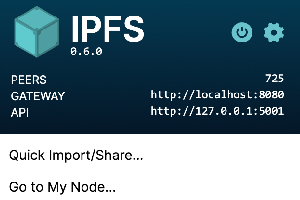
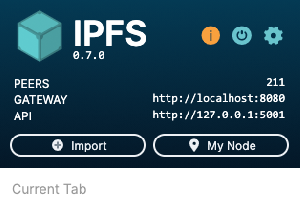
Image update for new Companion UI; consistency copy edits

diff --git a/docs/install/ipfs-companion.md b/docs/install/ipfs-companion.md
@@ -50,9 +50,9 @@ IPFS Companion also upgrades transport to IPFS if it finds the `x-ipfs-path` in 
 
 You can disable and re-enable local gateway redirects in several ways:
 
-- Suspend redirects globally in IPFS companion's preferences.
-- Suspend redirects per site using the toggle under the _current tab_ or in IPFS companion's preferences.
-- Add `x-ipfs-companion-no-redirect` to the URL itself as a hash.
+- Suspend redirects globally in IPFS Companion's preferences.
+- Suspend redirects per site using the toggle under the _current tab_ or in IPFS Companion's preferences.
+- Add `x-ipfs-companion-no-redirect` to the URL itself as a hash ([example](https://ipfs.io/ipfs/QmbWqxBEKC3P8tqsKc98xmWNzrzDtRLMiMPL8wBuTGsMnR#x-ipfs-companion-no-redirect)) or query parameter ([example](https://ipfs.io/ipfs/QmbWqxBEKC3P8tqsKc98xmWNzrzDtRLMiMPL8wBuTGsMnR?x-ipfs-companion-no-redirect)).
 
 ### Access frequently-used IPFS actions from your browser bar
 
@@ -65,7 +65,7 @@ IPFS Companion enables you to quickly and easily access common actions from your
 - Pin or unpin IPFS resources directly from the main menu.
 - Copy shareable public gateway links, IPFS content paths, or CIDs of IPFS resources directly from the main menu.
 - Launch the [IPFS Web UI dashboard](https://github.com/ipfs-shipyard/ipfs-webui) from the main menu with a single click.
-- Toggle gateway redirects or switch all IPFS companion features on or off quickly and easily from the main menu.
+- Toggle gateway redirects or switch all IPFS Companion features on or off quickly and easily from the main menu.
 
 ## Further documentation
 
